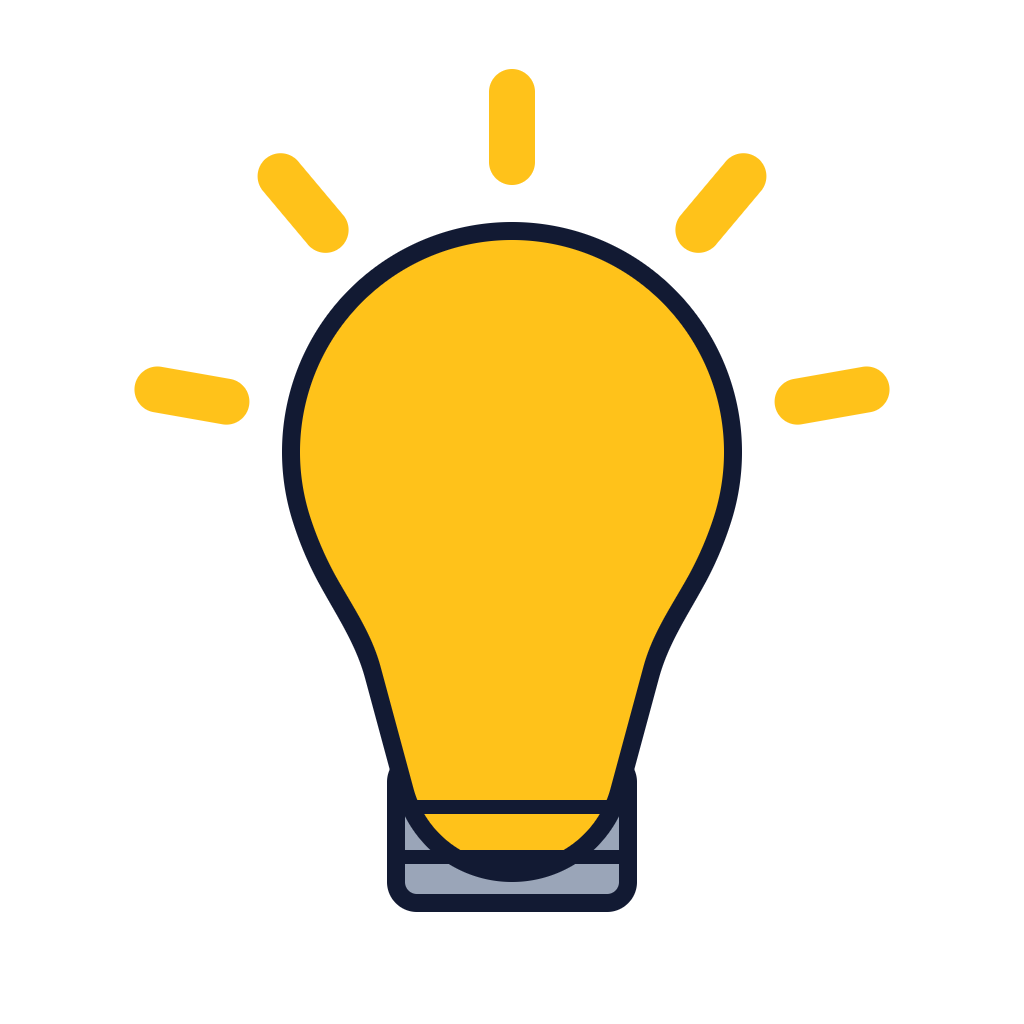
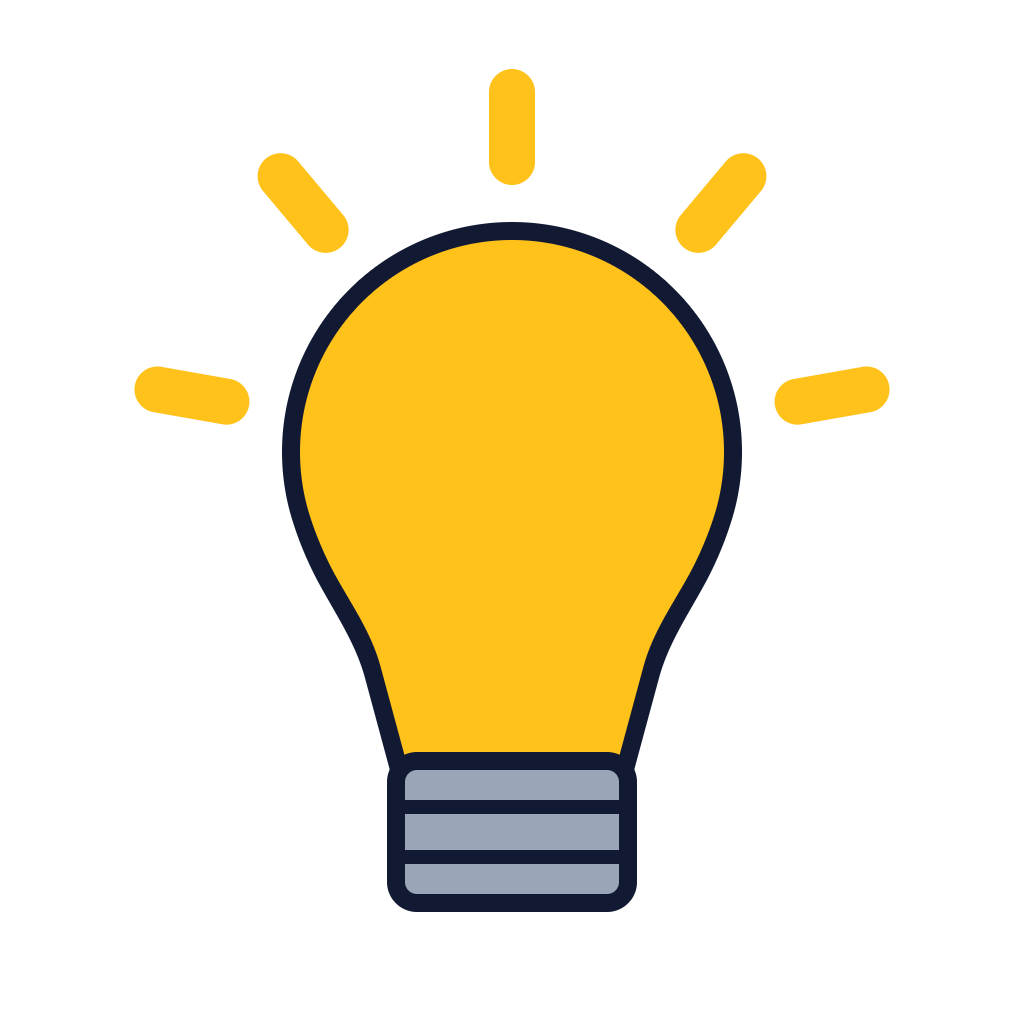
fix(library): paint the lightbulb's base over its glass

Changed region(s): [[0.375, 0.7188, 0.625, 0.875]]

diff --git a/scripts/gen-library.py b/scripts/gen-library.py
@@ -1469,8 +1469,8 @@ def lightbulb():
     glass = Smooth(Circle(0.0, -60.0, 230.0), Taper(0.0, 20.0, 180.0, 0.0, 250.0, 120.0), 40.0)
     base = Box(0.0, 320.0, 125.0, 80.0, 30.0)
     threads = Strokes([[(-110.0, y), (110.0, y)] for y in (295.0, 345.0)], 14.0)
-    return (bordered(rays, GOLD) + [(Union(glass, base), BORDER, WHITE)] + outlined(base, GREY)[1:]
-            + outlined(glass, GOLD)[1:] + [(threads, 0.0, NAVY)])
+    return (bordered(rays, GOLD) + [(Union(glass, base), BORDER, WHITE)] + outlined(glass, GOLD)[1:]
+            + outlined(base, GREY)[1:] + [(threads, 0.0, NAVY)])
 
 
 def new_tag():
